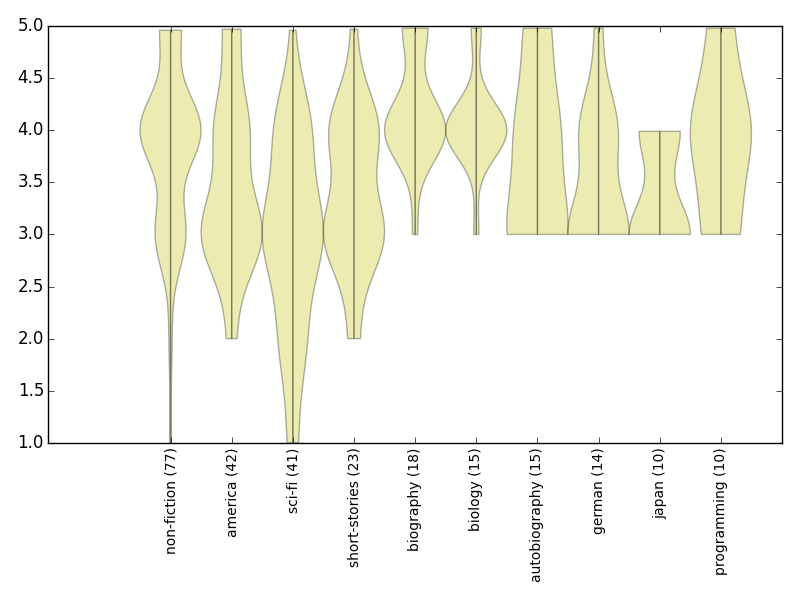
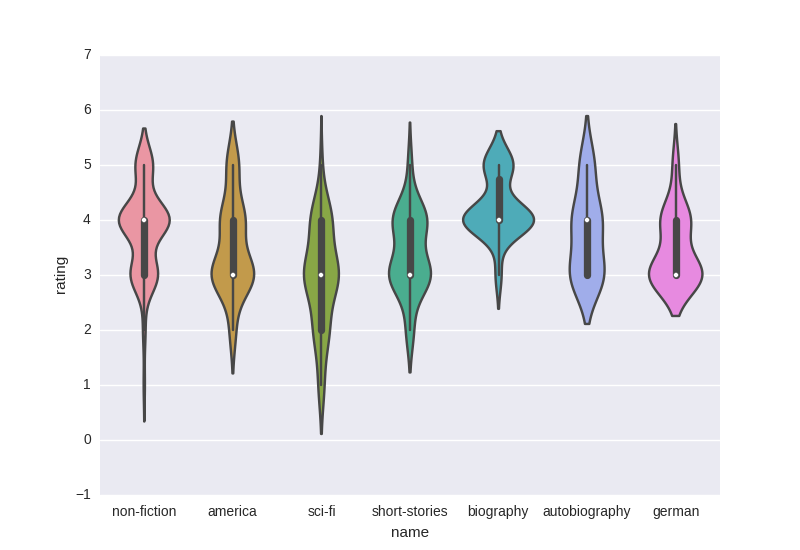
Replaces violinplots with seaborn functions

diff --git a/plotRatingsVsBookshelves.py b/plotRatingsVsBookshelves.py
@@ -1,38 +1,11 @@
-# slightly modified violinplotting from 
-# http://pyinsci.blogspot.com.br/2009/09/violin-plot-with-matplotlib.html
-# all I did is overwrite the xticks and add tight_layout
 from collections import defaultdict, Counter
-from matplotlib.pyplot import figure, show, xticks, tight_layout, savefig
-from scipy.stats import gaussian_kde
-from numpy import arange
+import pandas as pd
+import seaborn as sns
+import matplotlib.pyplot as plt
 import csv
 
-CATEGORIES = 10 # number of most crowded categories to plot
+CATEGORIES = 7 # number of most crowded categories to plot
 
-def violin_plot(ax,data,pos, bp=False):
-    '''
-    create violin plots on an axis
-    '''
-    dist = max(pos)-min(pos)
-    w = min(0.15*max(dist,1.0),0.5)
-    for d,p in zip(data,pos):
-        k = gaussian_kde(d) #calculates the kernel density
-        m = k.dataset.min() #lower bound of violin
-        M = k.dataset.max() #upper bound of violin
-        x = arange(m,M,(M-m)/100.) # support for violin
-        v = k.evaluate(x) #violin profile (density curve)
-        v = v/v.max()*w #scaling the violin to the available space
-        ax.fill_betweenx(x,p,v+p,facecolor='y',alpha=0.3)
-        ax.fill_betweenx(x,p,-v+p,facecolor='y',alpha=0.3)
-    if bp:
-        ax.boxplot(data,notch=1,positions=pos,vert=1)
-
-# Header:
-# Book Id,Title,Author,Author l-f,Additional Authors,ISBN,ISBN13,My Rating,Average Rating,Publisher,Binding,Number of Pages,Year Published,Original Publication Year,Date Read,Date Added,Bookshelves,Bookshelves with positions,Exclusive Shelf,My Review,Spoiler,Private Notes,Read Count,Recommended For,Recommended By,Owned Copies,Original Purchase Date,Original Purchase Location,Condition,Condition Description,BCID
-
-# to get only_read.tsv:
-# grep '"read"' goodreads_export.csv > only_read.csv
-# use libreoffice calc to add tabs to only_read.tsv
 if __name__ == "__main__":
     shelves_ratings = defaultdict(list) # key: shelf-name, value: list of ratings
     shelves_counter = Counter() # counts how many books on each shelf
@@ -59,15 +32,17 @@ if __name__ == "__main__":
     data_to_plot = []
     x_axis_labels = []
     pos = range(CATEGORIES)
+    # i am sure there's some magic pandas function which does all of this for you
+    names = []
+    ratings = []
     for name, _ in shelves_counter.most_common(CATEGORIES):
-        data_to_plot.append(shelves_ratings[name])
-        x_axis_labels.append("{0} ({1})".format(name, shelves_counter[name]))
+        for number in shelves_ratings[name]:
+            names.append(name)
+            ratings.append(number)
 
-    fig = figure()
-    ax = fig.add_subplot(111)
-    violin_plot(ax, data_to_plot, pos, bp=False)
-    # overwrite the x-axis labels
-    xticks(range(CATEGORIES), x_axis_labels, size="small", rotation=90)
-    tight_layout()
-    savefig("categories_violinplot.png")
-    #show()
+    full_table = pd.DataFrame({"name":names, "rating":ratings})
+
+    sns.violinplot(x="name", y="rating", data=full_table)
+    plt.savefig("categories_violinplot.png")
+    plt.show()
+
